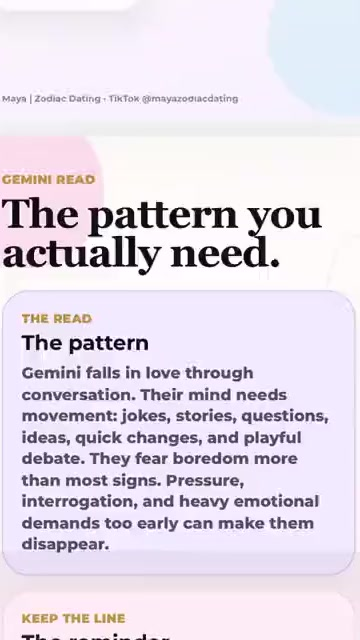
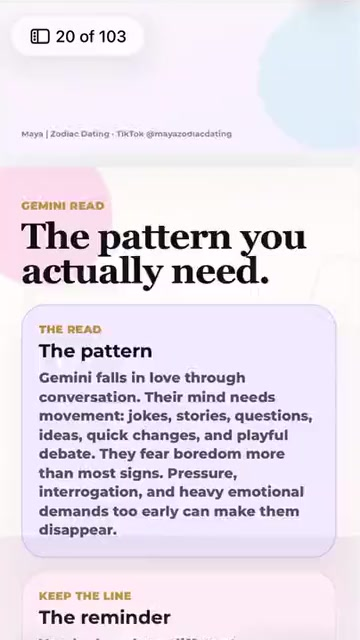
Keep page count visible in guide preview

diff --git a/index.html b/index.html
@@ -29,7 +29,7 @@
       href="https://fonts.googleapis.com/css2?family=Inter:wght@400;500;600;700;800;900&family=Playfair+Display:wght@700;800&display=swap"
       rel="stylesheet"
     >
-    <link rel="stylesheet" href="styles.css?v=7">
+    <link rel="stylesheet" href="styles.css?v=8">
     <title>The Complete Guide to Dating Each Zodiac Sign</title>
   </head>
   <body>
@@ -280,9 +280,9 @@
             <span class="preview-label">Real flip-through</span>
             <div class="product-video-frame">
               <video
-                src="assets/guide-flip-preview.mp4?v=7"
-                data-tiktok-fallback="assets/guide-flip-preview.gif?v=7"
-                poster="assets/guide-flip-preview-poster.jpg?v=7"
+                src="assets/guide-flip-preview.mp4?v=8"
+                data-tiktok-fallback="assets/guide-flip-preview.gif?v=8"
+                poster="assets/guide-flip-preview-poster.jpg?v=8"
                 autoplay
                 muted
                 loop
@@ -384,6 +384,6 @@
     </script>
     <script defer src="/_vercel/insights/script.js"></script>
     <script defer src="/_vercel/speed-insights/script.js"></script>
-    <script src="script.js?v=7"></script>
+    <script src="script.js?v=8"></script>
   </body>
 </html>